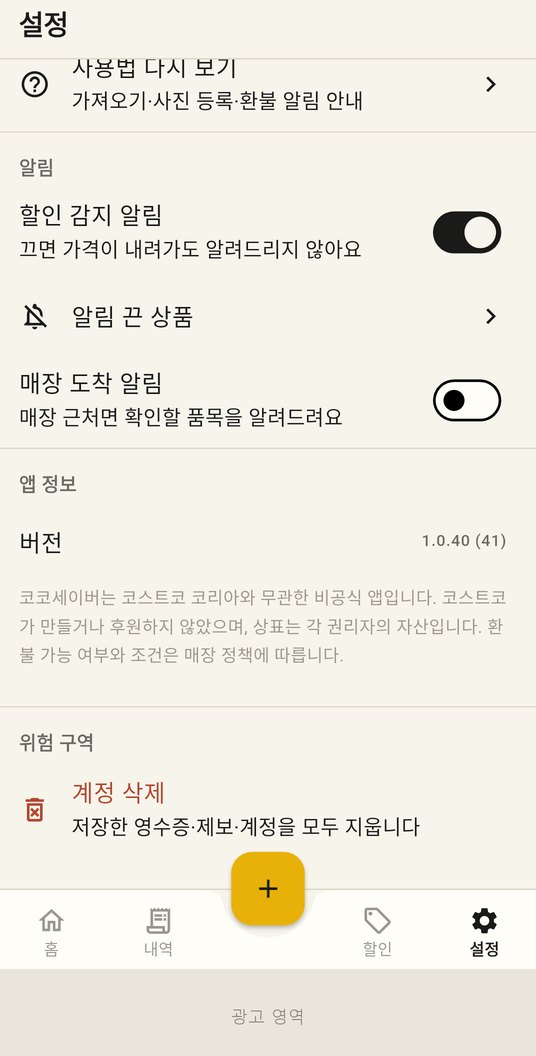
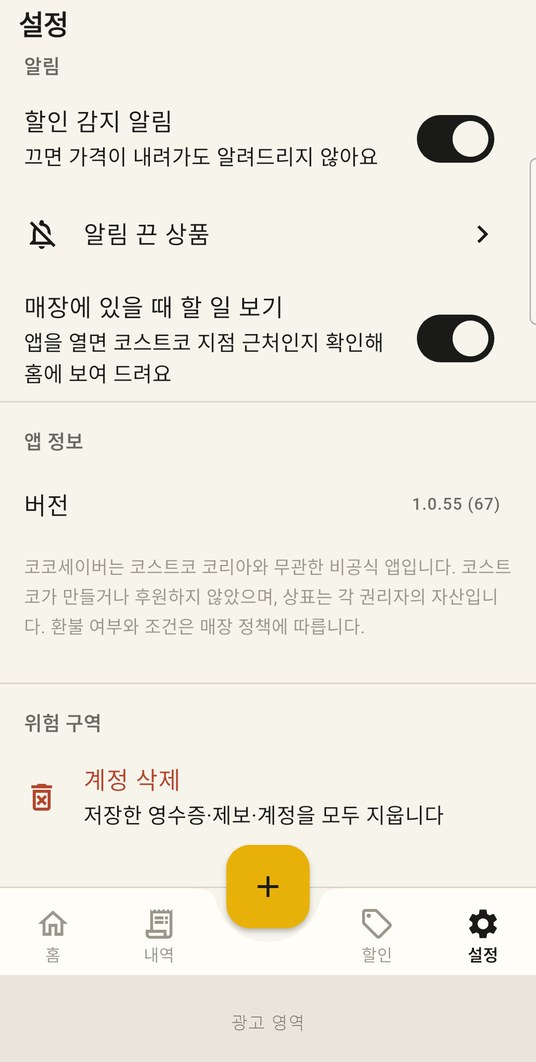
1.0.55 — 처리방침 2026-10-10 시행(이전본 보관)·설명서 갱신 (cocosaver b3ca4f1)

diff --git a/manual/index.html b/manual/index.html
@@ -137,7 +137,7 @@ p{margin:0}
     <h1>코코세이버,<br>이렇게 <em>쓰세요</em></h1>
   </div>
   <div class="ver">화면 기준<b>2026년 9월</b>앱 1.0.40~1.0.46</div>
-  <p class="lede">코스트코에서 산 물건이 나중에 싸지면, 매장 카운터에서 차액 환불을 요청할 수 있어요. 코코세이버는 내 영수증을 모아 두고, 다른 회원이 더 싸게 사면 알려 드려요. 화면마다 무엇을 할 수 있는지 차례대로 정리했습니다.</p>
+  <p class="lede">코스트코에서 산 물건이 나중에 싸지면, 할인가로 다시 사고 예전 영수증으로 환불하면 그만큼 아껴요(처리 여부는 매장 판단). 코코세이버는 내 영수증을 모아 두고, 다른 회원이 더 싸게 사면 알려 드려요. 화면마다 무엇을 할 수 있는지 차례대로 정리했습니다.</p>
 </header>
 
 <section class="intro" aria-label="시작하기 전에">
@@ -145,8 +145,8 @@ p{margin:0}
     <h2>3단계면 충분해요</h2>
     <ol>
       <li><div><b>영수증을 넣어요</b><span>코스트코 계정으로 6개월치를 한 번에 가져오거나, 영수증 사진을 올려요.</span></div></li>
-      <li><div><b>알림을 기다려요</b><span>내가 산 상품이 더 싸지면 차액과 함께 푸시 알림이 와요.</span></div></li>
-      <li><div><b>매장에서 돌려받아요</b><span>결제한 카드를 들고 고객 서비스 카운터에서 "가격 조정"을 요청하면 끝이에요.</span></div></li>
+      <li><div><b>알림을 기다려요</b><span>내가 산 상품이 더 싸지면 아끼는 금액과 함께 푸시 알림이 와요.</span></div></li>
+      <li><div><b>다시 사고 환불받아요</b><span>할인가로 하나 더 사고, 예전 영수증과 그때 결제한 카드로 새 물건을 환불하면 끝이에요.</span></div></li>
     </ol>
     <p class="note">화면 사진은 실제 앱을 LG G8에서 찍은 것입니다. 이름·이메일·카드 번호와 광고는 가렸어요.</p>
   </div>
@@ -316,18 +316,18 @@ p{margin:0}
   <header><span class="n">3</span><h2 id="c3">영수증 보기</h2><p>환불 카운터에서 바로 꺼내 보여 주세요</p></header>
 
   <article class="screen" id="s-home">
-    <figure class="shot"><img width="536" height="1056" src="img/03_home.jpg" alt="홈 화면. 위에 1개 품목 환불 가능 배너, 아래 최근 구매 내역 3건" loading="lazy"><figcaption>홈</figcaption></figure>
+    <figure class="shot"><img width="536" height="1056" src="img/03_home.jpg" alt="홈 화면. 위에 1개 품목 절약 가능 배너, 아래 최근 구매 내역 3건" loading="lazy"><figcaption>홈</figcaption></figure>
     <div class="body">
       <div class="code">300301</div>
       <h3>홈</h3>
       <p class="where">앱을 열면 가장 먼저 보이는 화면이에요. 아래 탭의 <b>홈</b>.</p>
       <ul>
-        <li>맨 위 초록 배너는 <b>지금 환불받을 수 있는 품목 수와 최대 금액</b>이에요. 누르면 할인 정보로 가요. 없을 때는 "지금 할인 중인 구매 품목이 없어요"라고 나와요.</li>
-        <li>환불을 한 번이라도 받으면 <b>지금까지 N원 아꼈어요</b> 카드가 생겨요. 매장 쿠폰은 앱이 없어도 받는 할인이라 여기에 넣지 않아요.</li>
+        <li>맨 위 초록 배너는 <b>다시 사고 환불하면 아낄 수 있는 품목 수와 최대 금액</b>이에요. 누르면 할인 정보로 가요. 없을 때는 "지금 할인 중인 구매 품목이 없어요"라고 나와요.</li>
+        <li>환불을 한 번이라도 마치면 <b>지금까지 N원 아꼈어요</b> 카드가 생겨요. 매장 쿠폰은 앱이 없어도 받는 할인이라 여기에 넣지 않아요.</li>
         <li><b>최근 구매 내역</b>은 구매일이 최근인 영수증 3건이에요. <b>전체보기</b>로 전체 목록을 봐요.</li>
         <li>오른쪽 위 <b>종</b> 모양은 할인 정보로 가는 바로가기예요.</li>
       </ul>
-      <p class="note">공지가 있으면 배너 위에 공지 카드가 나와요. 매장 도착 알림을 켜 두면 코스트코 매장에 있을 때 확인할 품목 배너도 보여요.</p>
+      <p class="note">공지가 있으면 배너 위에 공지 카드가 나와요. <b>매장에 있을 때 할 일 보기</b>를 켜 두면 코스트코 매장에서 앱을 열었을 때 "하남점에서 할 일 N개 · N원 아낄 수 있어요" 배너가 나와요. 누르면 그 지점에서 다시 사면 되는 품목, 가격표를 확인해 볼 품목, 할인 마감일과 영수증 보기가 한 화면에 모여요. 아직 켜지 않았다면 홈에 한 번 "매장에 가면 할 일을 바로 보여 드릴까요?" 카드가 떠요.</p>
     </div>
   </article>
 
@@ -354,6 +354,7 @@ p{margin:0}
       <p class="where">구매 내역이나 홈에서 영수증을 누르면 열려요.</p>
       <ul>
         <li>맨 위 카드에 <b>지점·구매일·거래번호·결제 카드</b>가 나와요. 결제 카드는 종류와 끝 4자리만 저장해요. 환불할 때 어떤 카드를 내야 하는지 알 수 있어요.</li>
+        <li>결제 카드 옆 <b>이름 붙이기</b>로 "애플워치 현대카드"처럼 이름을 붙여 둘 수 있어요. 같은 계정이면 다른 기기에서도 보여요. 붙이지 않아도 돼요. <b>아이폰</b>·애플워치의 애플페이는 실물 카드와 번호 끝자리가 달라요 — 아이폰은 지갑 앱에서 카드를 누른 뒤 카드 정보에서, 애플워치는 Watch 앱의 「지갑 및 Apple Pay」에서 기기 계정 번호를 볼 수 있어요.</li>
         <li>품목마다 <b>실제로 낸 돈</b>이 굵게 보여요. 쿠폰이 붙은 품목은 정가와 쿠폰 금액이 함께 나와요.</li>
         <li>노란 <b>상품번호</b>를 누르면 그 상품의 지점별 가격을 볼 수 있어요.</li>
         <li>품목 오른쪽 <b>⋮</b> 메뉴에서 <b>환불 완료로 표시</b>하거나 <b>이 상품 알림 끄기</b>를 할 수 있어요.</li>
@@ -381,22 +382,24 @@ p{margin:0}
 
 <!-- 4. 할인과 환불 -->
 <section class="chapter" aria-labelledby="c4">
-  <header><span class="n">4</span><h2 id="c4">할인과 환불</h2><p>싸진 걸 알았다면, 돌려받을 차례</p></header>
+  <header><span class="n">4</span><h2 id="c4">할인과 환불</h2><p>싸진 걸 알았다면, 다시 사고 환불받을 차례</p></header>
 
   <article class="screen" id="s-discount">
-    <figure class="shot"><img width="536" height="1056" src="img/11_discounts.jpg" alt="할인 정보. 환불 시 총 절약 가능 금액 2,000원과 지프 크루넥 티셔츠 카드" loading="lazy"><figcaption>할인 정보</figcaption></figure>
+    <figure class="shot"><img width="536" height="1056" src="img/11_discounts.jpg" alt="할인 정보. 다시 사고 환불하면 절약할 금액 2,000원과 지프 크루넥 티셔츠 카드" loading="lazy"><figcaption>할인 정보</figcaption></figure>
     <div class="body">
       <div class="code">400401</div>
       <h3>할인 정보</h3>
       <p class="where">아래 탭의 <b>할인</b>. 할인 알림을 누르면 여기로 와요.</p>
       <ul>
-        <li>맨 위는 지금 환불하면 받을 수 있는 <b>금액의 합</b>이에요.</li>
-        <li>카드마다 <b>내 구매가 → 현재 할인가</b>와 <b>환불 차액</b>이 나와요. 예를 들어 <span class="price">22,990원 → 20,990원</span>이면 2,000원을 돌려받을 수 있어요.</li>
+        <li>맨 위는 다시 사고 환불하면 아낄 수 있는 <b>금액의 합</b>이에요.</li>
+        <li>카드마다 <b>내 구매가 → 가장 싼 곳의 가격</b>과 <b>절약 금액</b>이 나와요. 예를 들어 <span class="price">22,990원 → 20,990원</span>이면 2,000원을 아껴요. 지점마다 가격이 다르면 <b>어디서 다시 사느냐에 따라</b> 지점별·온라인몰 금액이 한 줄로 나와요 — 가전이 아니면 어느 지점에서든 환불되거든요.</li>
         <li><b>영수증 보기</b>는 그 상품을 산 영수증을 열어요. 카운터에서 보여 주면 돼요.</li>
         <li><b>환불 방법</b>은 매장에서 어떻게 하는지 단계별로 알려 줘요.</li>
-        <li>돌려받았다면 <b>환불했어요</b>를 눌러요. 목록에서 빠지고, 받은 금액이 구매 분석의 "아낀 돈"에 더해져요.</li>
+        <li>카드에 할인 마감일이 <b>10월 11일까지 · 2일 남음</b>처럼 나와요(마지막 날은 "오늘까지"). 매장 할인은 온라인 할인 기간을 기준으로 적어요.</li>
+        <li>할인이 끝난 카드는 흐리게 맨 아래로 내려가고 위 합계에서 빠져요. 이미 할인가로 다시 샀다면 그대로 환불할 수 있어요.</li>
+        <li>환불을 마쳤다면 <b>환불했어요</b>를 눌러요. <b>실제로 아낀 금액</b>(예전 영수증으로 돌려받은 돈 − 다시 산 값)을 확인하고 다르면 고쳐서 저장해요. 목록에서 빠지고, 그 금액이 구매 분석의 "아낀 돈"에 더해져요.</li>
       </ul>
-      <p class="tip"><b>알림은 언제 오나요?</b> 내가 산 상품이 온라인몰 할인이나 다른 회원의 영수증에서 더 싼 가격으로 확인되면 차액과 함께 푸시 알림이 와요. 설정의 할인 감지 알림을 끄면 오지 않아요.</p>
+      <p class="tip"><b>알림은 언제 오나요?</b> 내가 산 상품이 온라인몰 할인이나 다른 회원의 영수증에서 더 싼 가격으로 확인되면 아끼는 금액과 어느 날짜의 어느 가격 기준인지 함께 푸시 알림이 와요. 할인이 끝나면 안 되니 서두르세요. 평소 코스트코에 가는 요일 아침에는, 다음 방문 전에 할인이 끝나는 품목이 있을 때만 "이번 토요일 코스트코 가세요?" 알림이 와요(영수증 날짜로 요일을 짐작하고, 위치는 쓰지 않아요). 설정의 할인 감지 알림을 끄면 둘 다 오지 않아요.</p>
     </div>
   </article>
 
@@ -406,29 +409,29 @@ p{margin:0}
       <h3>환불 방법 안내</h3>
       <p class="where">할인 정보 카드의 <b>환불 방법</b>을 누르면 열려요.</p>
       <ul>
-        <li><b>영수증과 결제 카드 챙기기</b> — 그때 결제한 카드를 가져가세요. 취소와 재결제가 그 카드로 이뤄져요. 영수증 상세의 "결제 카드"에서 확인할 수 있어요.</li>
-        <li><b>고객 서비스 카운터 방문</b> — 매장 안 환불 카운터로 가요. 회원카드로 구매 이력을 조회할 수 있어 영수증이 없어도 되는 경우가 많아요.</li>
+        <li><b>할인가로 다시 사기</b> — 같은 상품을 지금 할인가로 하나 더 사요. 매장이든 온라인몰이든 돼요.</li>
+        <li><b>예전 영수증·결제 카드·회원카드 챙기기</b> — 환불은 그때 결제한 카드로 취소돼요. 이 화면에 그 영수증의 <b>결제 카드</b>(붙인 이름 포함)와 <b>영수증 바코드</b>가 나와요. <b>크게 보기</b>를 누르면 화면이 가장 밝아져 카운터에서 보여 주기 좋고, 닫으면 원래 밝기로 돌아와요. 바코드가 없는 예전 영수증은 <b>원본 사진 보기</b>로 종이 영수증 사진을 열어요.</li>
       </ul>
       <ul>
-        <li><b>가격이 내려간 것을 알리기</b> — 상품과 현재 가격을 말하고 차액 환불을 요청해요.</li>
-        <li><b>처리 방식은 매장이 정해요</b> — 차액만 돌려주기도 하고, 결제를 취소한 뒤 할인가로 다시 결제하기도 해요. 쿠폰이 붙은 상품은 쿠폰을 뺀 실제 차액만 돌려받아요.</li>
+        <li><b>새로 산 물건을 예전 영수증으로 환불</b> — 매장 고객 서비스 카운터에서요. 상품번호가 같아 처리되고, 결과적으로 할인가로 산 것만 남아요.</li>
+        <li><b>알아두세요</b> — 정식 제도가 아니라 반품 보증을 이용하는 방법이라 처리 여부는 매장 판단이에요. 할인이 끝나면 할 수 없어요. 식품은 소비기한 안에, 대형 가전은 구매 후 90일 안에 구매한 지점에서만. 가전이 아니면 다른 지점에서도 환불되고 지점마다 금액이 다를 수 있어요. 쿠폰을 받고 산 상품은 쿠폰을 뺀 금액이 기준이에요.</li>
       </ul>
-      <p class="note">이 안내는 참고용이에요. 환불 여부와 방식은 매장 판단에 따릅니다. 대형 가전(TV·컴퓨터·휴대폰·냉장고 등)은 구매 후 90일 안에만 반품돼요.</p>
+      <p class="note">코스트코 고객센터(1899-9900)에 2026-10-07 확인한 내용이에요. 이 안내는 참고용이고, 환불 여부와 방식은 매장 판단에 따릅니다.</p>
     </div>
     <ol class="strip" style="--cols:2">
-      <li><div class="step"><b>1</b>챙길 것·방문·요청</div><img width="536" height="1056" src="img/12_refund_guide.jpg" alt="환불 방법 안내 1부. 영수증과 결제 카드, 카운터 방문, 가격 인하 알리기" loading="lazy"></li>
-      <li><div class="step"><b>2</b>알아두세요</div><img width="536" height="1056" src="img/12b_refund_guide_more.jpg" alt="환불 방법 안내 2부. 처리 방식과 알아두세요" loading="lazy"></li>
+      <li><div class="step"><b>1</b>챙길 것·방문·요청</div><img width="536" height="1056" src="img/12_refund_guide.jpg" alt="환불 방법 안내 1부. 할인가로 다시 사기, 예전 영수증과 결제 카드, 예전 영수증으로 환불" loading="lazy"></li>
+      <li><div class="step"><b>2</b>알아두세요</div><img width="536" height="1056" src="img/12b_refund_guide_more.jpg" alt="환불 방법 안내 2부. 알아두세요" loading="lazy"></li>
     </ol>
   </article>
 
   <article class="screen" id="s-stats">
-    <figure class="shot"><img width="536" height="1056" src="img/13_stats.jpg" alt="구매 분석. 코코세이버로 아낀 돈, 총 지출, 환불받은 차액, 월별 지출" loading="lazy"><figcaption>구매 분석</figcaption></figure>
+    <figure class="shot"><img width="536" height="1056" src="img/13_stats.jpg" alt="구매 분석. 코코세이버로 아낀 돈, 총 지출, 환불받은 금액, 월별 지출" loading="lazy"><figcaption>구매 분석</figcaption></figure>
     <div class="body">
       <div class="code">400403</div>
       <h3>구매 분석</h3>
       <p class="where">설정 › <b>절약 리포트</b>, 또는 홈의 "아꼈어요" 카드.</p>
       <ul>
-        <li><b>코코세이버로 아낀 돈</b>은 "환불했어요"로 표시한 가격 조정 차액의 합이에요. 매장 쿠폰 할인은 넣지 않아요.</li>
+        <li><b>코코세이버로 아낀 돈</b>은 "환불했어요"로 표시한 재구매·환불 절약 금액의 합이에요. 매장 쿠폰 할인은 넣지 않아요.</li>
         <li><b>총 지출</b>과 <b>구매 건수·품목 수</b>로 코스트코에 얼마나 썼는지 봐요.</li>
         <li><b>환불받은 차액</b>은 금액과 건수를 함께 보여 줘요.</li>
         <li>아직 받지 않은 환불이 있으면 <b>지금 환불하면 N원 더 받을 수 있어요</b>가 나와요.</li>
@@ -455,11 +458,11 @@ p{margin:0}
         <li><b>사용 설명서</b> — 이 설명서를 브라우저로 다시 열어요. 공지 카드를 닫았어도 여기서 볼 수 있어요.</li>
         <li><b>할인 감지 알림</b> — 끄면 가격이 내려가도 알림을 보내지 않아요.</li>
         <li><b>알림 끈 상품</b> — 상품별로 끈 알림을 모아 보고 다시 켤 수 있어요.</li>
-        <li><b>매장 도착 알림</b> — 켜면 코스트코 매장 근처에 있을 때 확인할 품목을 알려 줘요. 위치 권한이 필요해요.</li>
+        <li><b>매장에 있을 때 할 일 보기</b> — 켜면 앱을 열 때 코스트코 지점 근처인지 확인해 그 지점에서 할 일을 홈에 보여 줘요. 위치 권한이 필요하고, 위치는 기기 안에서만 쓰고 저장하거나 보내지 않아요. 앱을 닫아 두면 알림은 오지 않아요.</li>
         <li><b>앱 정보</b>에서 버전을 확인하고, 맨 아래 <b>계정 삭제</b>로 영수증과 계정을 모두 지울 수 있어요. 되돌릴 수 없어서 두 번 확인해요.</li>
         <li>Apple로 로그인한 계정이면 삭제할 때 <b>Apple 연결도 함께 끊도록</b> Apple 인증 창이 한 번 더 떠요. 건너뛰어도 계정과 데이터는 지워지고, Apple 연결은 Apple 계정 설정에서 직접 끊을 수 있어요.</li>
       </ul>
-      <figure class="shot" style="max-width:220px"><img width="536" height="1056" src="img/14b_settings_more.jpg" alt="설정 화면 아래쪽. 알림 끈 상품, 매장 도착 알림, 버전, 계정 삭제" loading="lazy"><figcaption>설정 아래쪽</figcaption></figure>
+      <figure class="shot" style="max-width:220px"><img width="536" height="1062" src="img/14b_settings_more.jpg" alt="설정 화면 아래쪽. 알림 끈 상품, 매장에 있을 때 할 일 보기, 버전, 계정 삭제" loading="lazy"><figcaption>설정 아래쪽</figcaption></figure>
     </div>
   </article>
 
@@ -505,7 +508,7 @@ p{margin:0}
 </section>
 
 <footer class="foot">
-  <p>코코세이버는 코스트코 코리아와 제휴 관계가 없는 독립 앱입니다. 'COSTCO'는 해당 회사의 상표이며, 환불 가능 여부와 조건은 매장 정책을 따릅니다.</p>
+  <p>코코세이버는 코스트코 코리아와 제휴 관계가 없는 독립 앱입니다. 'COSTCO'는 해당 회사의 상표이며, 환불 여부와 조건은 매장 정책을 따릅니다.</p>
   <p><a href="../">코코세이버 홈</a> · <a href="../privacy.html">개인정보 처리방침</a> · 문의는 앱의 설정 › 고객센터로 보내 주세요.</p>
   <p>화면은 2026년 9월 안드로이드 앱(1.0.40~1.0.51) 기준입니다. 아이폰도 화면 구성은 같고, 다른 점은 본문에 <b>아이폰</b>으로 따로 적었어요. 이름·이메일·카드 번호, 광고, 코스트코 사이트 로고는 가렸어요.</p>
 </footer>

diff --git a/2026-09-29.html b/2026-09-29.html
@@ -1,0 +1,133 @@
+<!doctype html>
+<html lang="ko"><head>
+<meta charset="utf-8">
+<meta name="viewport" content="width=device-width,initial-scale=1">
+<title>코코세이버 개인정보 처리방침</title>
+<style>
+  body { max-width: 720px; margin: 0 auto; padding: 24px 18px 64px;
+         font: 15px/1.75 -apple-system,"Segoe UI","Noto Sans KR",sans-serif;
+         color: #1a1a18; background: #f7f4ec; }
+  h1 { font-size: 24px; margin: 8px 0 20px; }
+  h2 { font-size: 18px; margin: 32px 0 10px; padding-top: 12px;
+        border-top: 1px solid #dcd6c6; }
+  h3 { font-size: 15.5px; margin: 20px 0 8px; }
+  .wrap { overflow-x: auto; }
+  table { width: 100%; border-collapse: collapse; margin: 12px 0; font-size: 14px; }
+  th, td { border: 1px solid #dcd6c6; padding: 8px 10px; text-align: left;
+            vertical-align: top; }
+  th { background: #ede8dc; }
+  hr { border: 0; border-top: 1px solid #dcd6c6; margin: 28px 0; }
+  a { color: #3d6b4a; word-break: break-all; }
+  ul { padding-left: 22px; }
+  @media (prefers-color-scheme: dark) {
+    body { background: #1a1a18; color: #ede8dc; }
+    th { background: #2a2a26; }
+    th, td, h2, hr { border-color: #3d3a33; }
+    a { color: #8fbf9f; }
+  }
+</style></head><body>
+<h1>코코세이버 개인정보 처리방침 (2026년 9월 29일 시행본)</h1>
+<p><strong>시행일: 2026년 9월 29일</strong> (공고: 2026년 9월 22일 · 이전 방침: <a href="2026-09-17.html">2026년 9월 17일 시행본</a>)</p>
+<p>바뀐 점: 항목별 처리 근거, 결제 카드 종류·끝 4자리, 인식 오류 제보, 위치(기기 안에서만 사용), 국외 이전, 파기, 맞춤형 광고 거부 방법, 이용자 권리, 개인정보 보호책임자, iOS(Apple로 로그인·Apple 푸시) 항목을 추가했습니다.</p>
+<p>코코세이버(이하 "서비스")는 「개인정보 보호법」 등 관련 법령을 지키며, 이용자의 개인정보를 어떤 근거로 무엇을 수집하고 어떻게 이용·보관·파기하는지 이 방침으로 알립니다.</p>
+<hr>
+<h2>1. 처리하는 개인정보 항목과 처리 근거</h2>
+<p>서비스는 이용자가 요청한 기능을 제공하는 데 <strong>꼭 필요한 정보</strong>는 「개인정보 보호법」 제15조 제1항 제4호(계약의 이행)에 따라 처리하고, 그 밖의 정보는 <strong>이용자의 동의</strong> 또는 이용자가 직접 켠 기능에 한해 처리합니다.</p>
+<div class="wrap"><table>
+<tr><th>구분</th><th>항목</th><th>수집 시점</th><th>처리 근거</th></tr>
+<tr><td>계정 정보</td><td>이메일 주소, 프로필 이름·사진 주소, 계정 식별자(UID), 가입·최근 로그인 시각</td><td>Google 계정으로 로그인할 때</td><td>계약 이행</td></tr>
+<tr><td>계정 정보(iOS)</td><td>Apple이 제공하는 이메일 주소(이용자가 선택하면 Apple의 가림 이메일)·이름, 계정 식별자</td><td>Apple로 로그인할 때(iOS 앱)</td><td>계약 이행</td></tr>
+<tr><td>구매 내역</td><td>영수증에서 읽은 거래번호·매장·거래일자·상품번호·품목명·수량·가격·쿠폰·합계·세금</td><td>영수증을 저장할 때</td><td>계약 이행</td></tr>
+<tr><td>결제 카드</td><td><strong>카드 종류와 영수증에 인쇄된 번호의 끝 4자리만</strong>(환불 때 어떤 카드를 낼지 알려 주기 위함). 카드번호 전체는 저장하지 않습니다</td><td>영수증을 저장할 때</td><td>계약 이행</td></tr>
+<tr><td>영수증 이미지</td><td>촬영·선택한 영수증 사진</td><td>사진으로 영수증을 저장할 때</td><td>계약 이행</td></tr>
+<tr><td>코스트코 매장 영수증</td><td>코스트코 사이트 「매장 영수증」의 거래일시·매장·상품번호·품목명·수량·가격·쿠폰·합계·거래번호, 결제 카드 종류·끝 4자리. <strong>회원번호·카드번호 전체·코스트코 아이디·비밀번호·로그인 정보는 받지 않습니다</strong></td><td>「코스트코 계정에서 가져오기」를 실행할 때</td><td>계약 이행(이용자 요청)</td></tr>
+<tr><td>알림 정보</td><td>푸시 알림용 기기 토큰(FCM), 알림을 보낸 상품·가격·시각, 알림을 끈 상품</td><td>알림을 허용하거나 설정을 바꿀 때</td><td>계약 이행</td></tr>
+<tr><td>고객센터 문의</td><td>문의 유형·내용(직접 쓴 글)·앱 버전·기기 종류, 답변</td><td>문의를 보낼 때</td><td>계약 이행(이용자 요청)</td></tr>
+<tr><td>인식 오류 제보</td><td>영수증 인식 원문과 글자 위치, 인식 결과, 이용자 코멘트. <strong>회원번호·승인번호는 지우고 카드번호는 끝 4자리만 남겨</strong> 보냅니다</td><td>「인식 오류 제보」를 보낼 때</td><td>동의(보내기 전 확인 창)</td></tr>
+<tr><td>앱 사용 통계</td><td>앱 실행·화면 이용 같은 사용 이벤트, 기기 종류·앱 버전(Google Analytics for Firebase)</td><td>앱 이용 중</td><td>동의·거부 수단 제공(7절)</td></tr>
+<tr><td>오류 기록</td><td>비정상 종료·오류 내용, 기기 종류·앱 버전(Firebase Crashlytics). 이용자 식별값은 붙이지 않습니다</td><td>오류가 났을 때</td><td>서비스 안정성 확보(정당한 이익)</td></tr>
+<tr><td>광고 식별자</td><td>광고 게재·측정을 위한 기기 광고 ID</td><td>앱 이용 중(Google AdMob)</td><td>동의·거부 수단 제공(7절)</td></tr>
+</table></div>
+<ul>
+<li>서비스는 민감정보(주민등록번호·건강 정보 등)를 수집하지 않습니다.</li>
+<li>「코스트코 계정에서 가져오기」에서 이용자는 앱 안에 열린 코스트코 웹페이지에 <strong>직접</strong> 로그인합니다. 서비스는 입력한 아이디·비밀번호와 코스트코 로그인 정보(쿠키·토큰)를 읽거나 서버로 보내지 않으며, 가져오기가 끝나거나 화면을 나가면 앱 안의 코스트코 로그인 정보를 삭제합니다.</li>
+<li><strong>위치 정보</strong>: 「매장 도착 알림」을 켜면 코스트코 매장 근처인지 판단하려고 기기의 위치를 사용합니다. 이 판단은 <strong>기기 안에서만</strong> 이뤄지며, 위치는 서버로 보내거나 저장하지 않습니다. 기능을 켤 때 안내와 동의를 받고, 설정에서 언제든 끌 수 있습니다.</li>
+</ul>
+<h3>상품 가격 정보 (개인정보 아님)</h3>
+<p><strong>사진으로 넣은 영수증</strong>을 저장하면 그 안의 <strong>상품번호·품목명·매장·가격</strong>이 상품별 가격 정보로 함께 쌓입니다. 코스트코 계정에서 가져온 영수증은 가격 정보로 쓰지 않습니다. 여기에는 <strong>누가 샀는지가 담기지 않습니다</strong> — 이용자 식별자·거래번호는 저장하지 않고 "어느 지점에서 그 상품이 얼마였는가"만 남으며, 다른 이용자에게 지점별 가격 비교·가격 인하 알림으로 제공됩니다.</p>
+<h2>2. 개인정보의 이용 목적</h2>
+<ul>
+<li>로그인과 이용자 식별, 이용자별 구매 내역 저장·동기화</li>
+<li>구매 품목의 가격 인하 감지와 <strong>가격 조정 환불 안내 푸시 알림</strong>, 환불할 결제 카드 안내</li>
+<li>고객 문의 응대, 영수증 인식 품질 개선</li>
+<li>서비스 운영·통계 분석·오류 개선, 광고 게재</li>
+</ul>
+<h2>3. 카메라·사진 접근</h2>
+<ul>
+<li>영수증을 촬영하거나 갤러리에서 고르기 위해 카메라·사진 접근 권한을 사용합니다.</li>
+<li>사진의 <strong>문자 인식(OCR)은 기기 안(Google ML Kit)</strong> 에서 처리되며, 인식을 위해 사진을 외부로 보내지 않습니다.</li>
+<li>영수증 사진은 이용자가 저장할 때에만 클라우드 저장소(서울 리전)에 올라갑니다.</li>
+</ul>
+<h2>4. 개인정보 처리 위탁</h2>
+<p>서비스는 아래 사업자에게 개인정보 처리를 맡깁니다.</p>
+<div class="wrap"><table>
+<tr><th>수탁자</th><th>위탁 업무</th></tr>
+<tr><td>Google LLC — Firebase(Authentication·Cloud Firestore·Cloud Storage·Cloud Functions·Cloud Messaging·Crashlytics·Analytics)</td><td>인증, 데이터·이미지 저장, 서버 처리, 푸시 알림, 오류·사용 통계</td></tr>
+<tr><td>Google LLC — AdMob</td><td>광고 게재·측정</td></tr>
+<tr><td>Apple Inc. — Apple로 로그인, Apple 푸시 알림 서비스(APNs)</td><td>iOS 앱의 로그인, 아이폰으로 푸시 알림 전달</td></tr>
+</table></div>
+<p>서비스는 이용자의 개인정보를 판매하거나 위 목적과 무관한 제3자에게 제공하지 않습니다.</p>
+<h2>5. 개인정보의 국외 이전</h2>
+<p>구매 내역·영수증 사진·문의 같은 <strong>주요 데이터는 대한민국(Google Cloud 서울 리전)에 저장</strong>됩니다. 다만 아래 기능은 Google·Apple이 해외 서버에서 처리하므로, 「개인정보 보호법」 제28조의8 제1항 제3호에 따라 알립니다.</p>
+<div class="wrap"><table>
+<tr><th>항목</th><th>내용</th></tr>
+<tr><td>이전받는 자</td><td>Google LLC (개인정보 보호 문의: <a href="https://support.google.com/policies/troubleshooter/7575787">https://support.google.com/policies/troubleshooter/7575787</a>) · Apple Inc.(iOS 앱, 개인정보 보호 문의: <a href="https://www.apple.com/kr/legal/privacy/contact/">https://www.apple.com/kr/legal/privacy/contact/</a>)</td></tr>
+<tr><td>이전 국가</td><td>미국 등 Google·Apple 데이터센터가 있는 국가</td></tr>
+<tr><td>이전 항목</td><td>계정 정보(로그인), 알림 토큰, 앱 사용 통계, 오류 기록, 광고 식별자. iOS 앱은 Apple 로그인 정보와 푸시 알림 토큰</td></tr>
+<tr><td>이전 시기·방법</td><td>서비스 이용 중 필요할 때마다 네트워크(암호화 전송)로 이전</td></tr>
+<tr><td>이용 목적·보유 기간</td><td>로그인·푸시 알림·통계·오류 분석·광고 — 목적 달성 또는 계정 삭제 시까지(각 사업자 정책에 따른 기간)</td></tr>
+<tr><td>거부 방법과 효과</td><td>로그인·알림은 서비스 제공에 필요해 거부하면 서비스를 이용할 수 없습니다. 통계·광고 식별자는 7절 방법으로 거부할 수 있으며, 거부해도 서비스는 그대로 이용할 수 있습니다</td></tr>
+</table></div>
+<h2>6. 보유 기간과 파기</h2>
+<ul>
+<li>계정과 구매 내역·결제 카드 정보·영수증 사진은 <strong>계정을 이용하는 동안</strong> 보유합니다.</li>
+<li>이용자가 영수증을 지우거나 <strong>앱에서 계정 삭제</strong>를 하면 관련 데이터를 <strong>지체 없이, 복구할 수 없는 방법으로</strong> 삭제합니다. Apple로 로그인한 계정은 삭제할 때 Apple에 발급된 로그인 권한도 함께 취소합니다.</li>
+<li>고객센터 문의와 인식 오류 제보는 처리 목적을 다하면 삭제하며, 계정 삭제 시 함께 삭제합니다.</li>
+<li>법령에 따라 보관해야 하는 정보가 생기면 그 기간 동안만 분리해 보관합니다.</li>
+</ul>
+<h2>7. 개인정보 자동 수집 장치와 맞춤형 광고</h2>
+<p>서비스는 앱 사용 통계(Google Analytics for Firebase)와 광고(Google AdMob)를 위해 <strong>기기 광고 식별자</strong>를 사용하며, 광고 사업자는 이를 이용해 <strong>관심 기반(맞춤형) 광고</strong>를 보여 줄 수 있습니다.</p>
+<ul>
+<li><strong>거부 방법(안드로이드)</strong>: 설정 › Google › 광고 › <strong>광고 ID 삭제</strong>(또는 맞춤 광고 선택 해제)</li>
+<li><strong>거부 방법(iOS)</strong>: 앱이 처음 묻는 「추적 허용」 창에서 거부하거나, 설정 › 개인정보 보호 및 보안 › 추적에서 끕니다</li>
+<li>거부해도 광고는 맞춤이 아닌 형태로 나가며, 서비스 이용에는 영향이 없습니다.</li>
+</ul>
+<h2>8. 이용자의 권리와 행사 방법</h2>
+<ul>
+<li>이용자는 언제든 자신의 개인정보를 <strong>열람·정정·삭제</strong>하거나 <strong>처리 정지</strong>를 요구할 수 있습니다.</li>
+<li>구매 내역은 앱에서 바로 조회·삭제할 수 있고, <strong>설정 › 계정 삭제</strong>로 계정과 모든 데이터를 지울 수 있습니다.</li>
+<li>그 밖의 요청은 10절 연락처로 보내 주시면 지체 없이 처리합니다.</li>
+<li>알림 수신은 앱 설정이나 기기 설정에서 언제든 끌 수 있습니다.</li>
+</ul>
+<h2>9. 만 14세 미만 아동</h2>
+<p>서비스는 만 14세 미만 아동을 대상으로 하지 않으며, 아동의 개인정보를 알면서 수집하지 않습니다. 만 14세 미만 아동의 정보가 수집된 사실을 알게 되면 지체 없이 삭제합니다.</p>
+<h2>10. 개인정보 보호책임자</h2>
+<div class="wrap"><table>
+<tr><th>구분</th><th>내용</th></tr>
+<tr><td>개인정보 보호책임자</td><td>코코세이버 운영팀</td></tr>
+<tr><td>연락처</td><td>fready.shin@gmail.com</td></tr>
+</table></div>
+<p>개인정보 침해에 대한 상담·신고는 아래 기관에 할 수 있습니다.</p>
+<ul>
+<li>개인정보침해신고센터(한국인터넷진흥원): 118, privacy.kisa.or.kr</li>
+<li>개인정보 분쟁조정위원회: 1833-6972, www.kopico.go.kr</li>
+<li>대검찰청: 1301, 경찰청: 182</li>
+</ul>
+<h2>11. 안전성 확보 조치</h2>
+<ul>
+<li>데이터는 이용자 본인만 접근할 수 있도록 서버 보안 규칙으로 보호하며, 앱의 정상 설치본만 서버에 접근하도록 확인(App Check)합니다.</li>
+<li>모든 전송 구간은 암호화(HTTPS)되며, 관리 기능은 관리자 권한이 있는 계정만 사용할 수 있습니다.</li>
+</ul>
+<h2>12. 방침의 변경</h2>
+<p>이 방침을 바꾸면 시행 7일 전부터 앱 공지 또는 이 페이지로 알립니다. 이용자 권리에 중요한 변경은 30일 전에 알립니다.</p>
+</body></html>

diff --git a/privacy.html b/privacy.html
@@ -27,8 +27,8 @@
   }
 </style></head><body>
 <h1>코코세이버 개인정보 처리방침</h1>
-<p><strong>시행일: 2026년 9월 29일</strong> (공고: 2026년 9월 22일 · 이전 방침: <a href="2026-09-17.html">2026년 9월 17일 시행본</a>)</p>
-<p>바뀐 점: 항목별 처리 근거, 결제 카드 종류·끝 4자리, 인식 오류 제보, 위치(기기 안에서만 사용), 국외 이전, 파기, 맞춤형 광고 거부 방법, 이용자 권리, 개인정보 보호책임자, iOS(Apple로 로그인·Apple 푸시) 항목을 추가했습니다.</p>
+<p><strong>시행일: 2026년 10월 10일</strong> (이전 방침: <a href="2026-09-29.html">2026년 9월 29일 시행본</a> · <a href="2026-09-17.html">2026년 9월 17일 시행본</a>)</p>
+<p>바뀐 점: 이용자가 붙인 결제 카드 이름(선택), 영수증 바코드 숫자, 「환불했어요」로 남긴 환불 기록과 금액을 항목에 적고, 위치 기능의 이름을 「매장에 있을 때 할 일 보기」로 바꿨습니다.</p>
 <p>코코세이버(이하 "서비스")는 「개인정보 보호법」 등 관련 법령을 지키며, 이용자의 개인정보를 어떤 근거로 무엇을 수집하고 어떻게 이용·보관·파기하는지 이 방침으로 알립니다.</p>
 <hr>
 <h2>1. 처리하는 개인정보 항목과 처리 근거</h2>
@@ -37,8 +37,8 @@
 <tr><th>구분</th><th>항목</th><th>수집 시점</th><th>처리 근거</th></tr>
 <tr><td>계정 정보</td><td>이메일 주소, 프로필 이름·사진 주소, 계정 식별자(UID), 가입·최근 로그인 시각</td><td>Google 계정으로 로그인할 때</td><td>계약 이행</td></tr>
 <tr><td>계정 정보(iOS)</td><td>Apple이 제공하는 이메일 주소(이용자가 선택하면 Apple의 가림 이메일)·이름, 계정 식별자</td><td>Apple로 로그인할 때(iOS 앱)</td><td>계약 이행</td></tr>
-<tr><td>구매 내역</td><td>영수증에서 읽은 거래번호·매장·거래일자·상품번호·품목명·수량·가격·쿠폰·합계·세금</td><td>영수증을 저장할 때</td><td>계약 이행</td></tr>
-<tr><td>결제 카드</td><td><strong>카드 종류와 영수증에 인쇄된 번호의 끝 4자리만</strong>(환불 때 어떤 카드를 낼지 알려 주기 위함). 카드번호 전체는 저장하지 않습니다</td><td>영수증을 저장할 때</td><td>계약 이행</td></tr>
+<tr><td>구매 내역</td><td>영수증에서 읽은 거래번호·매장·거래일자·상품번호·품목명·수량·가격·쿠폰·합계·세금, 영수증 바코드 숫자(거래번호와 같은 정보로, 환불 카운터에서 화면으로 보여 주기 위함). 「환불했어요」로 남긴 상품과 환불받은 금액</td><td>영수증을 저장할 때</td><td>계약 이행</td></tr>
+<tr><td>결제 카드</td><td><strong>카드 종류와 영수증에 인쇄된 번호의 끝 4자리만</strong>(환불 때 어떤 카드를 낼지 알려 주기 위함). 카드번호 전체는 저장하지 않습니다. 이용자가 원하면 붙이는 <strong>카드 이름(선택)</strong></td><td>영수증을 저장할 때, 카드 이름은 이용자가 직접 붙일 때</td><td>계약 이행</td></tr>
 <tr><td>영수증 이미지</td><td>촬영·선택한 영수증 사진</td><td>사진으로 영수증을 저장할 때</td><td>계약 이행</td></tr>
 <tr><td>코스트코 매장 영수증</td><td>코스트코 사이트 「매장 영수증」의 거래일시·매장·상품번호·품목명·수량·가격·쿠폰·합계·거래번호, 결제 카드 종류·끝 4자리. <strong>회원번호·카드번호 전체·코스트코 아이디·비밀번호·로그인 정보는 받지 않습니다</strong></td><td>「코스트코 계정에서 가져오기」를 실행할 때</td><td>계약 이행(이용자 요청)</td></tr>
 <tr><td>알림 정보</td><td>푸시 알림용 기기 토큰(FCM), 알림을 보낸 상품·가격·시각, 알림을 끈 상품</td><td>알림을 허용하거나 설정을 바꿀 때</td><td>계약 이행</td></tr>
@@ -51,7 +51,7 @@
 <ul>
 <li>서비스는 민감정보(주민등록번호·건강 정보 등)를 수집하지 않습니다.</li>
 <li>「코스트코 계정에서 가져오기」에서 이용자는 앱 안에 열린 코스트코 웹페이지에 <strong>직접</strong> 로그인합니다. 서비스는 입력한 아이디·비밀번호와 코스트코 로그인 정보(쿠키·토큰)를 읽거나 서버로 보내지 않으며, 가져오기가 끝나거나 화면을 나가면 앱 안의 코스트코 로그인 정보를 삭제합니다.</li>
-<li><strong>위치 정보</strong>: 「매장 도착 알림」을 켜면 코스트코 매장 근처인지 판단하려고 기기의 위치를 사용합니다. 이 판단은 <strong>기기 안에서만</strong> 이뤄지며, 위치는 서버로 보내거나 저장하지 않습니다. 기능을 켤 때 안내와 동의를 받고, 설정에서 언제든 끌 수 있습니다.</li>
+<li><strong>위치 정보</strong>: 「매장에 있을 때 할 일 보기」를 켜면 코스트코 매장 근처인지 판단하려고 기기의 위치를 사용합니다. 이 판단은 <strong>기기 안에서만</strong> 이뤄지며, 위치는 서버로 보내거나 저장하지 않습니다. 기능을 켤 때 안내와 동의를 받고, 설정에서 언제든 끌 수 있습니다.</li>
 </ul>
 <h3>상품 가격 정보 (개인정보 아님)</h3>
 <p><strong>사진으로 넣은 영수증</strong>을 저장하면 그 안의 <strong>상품번호·품목명·매장·가격</strong>이 상품별 가격 정보로 함께 쌓입니다. 코스트코 계정에서 가져온 영수증은 가격 정보로 쓰지 않습니다. 여기에는 <strong>누가 샀는지가 담기지 않습니다</strong> — 이용자 식별자·거래번호는 저장하지 않고 "어느 지점에서 그 상품이 얼마였는가"만 남으며, 다른 이용자에게 지점별 가격 비교·가격 인하 알림으로 제공됩니다.</p>
